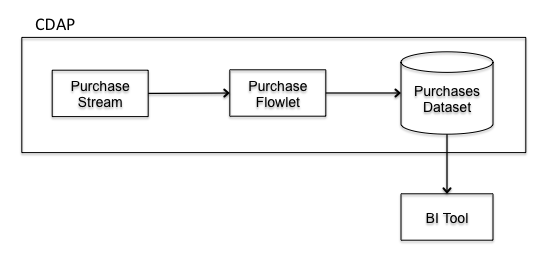
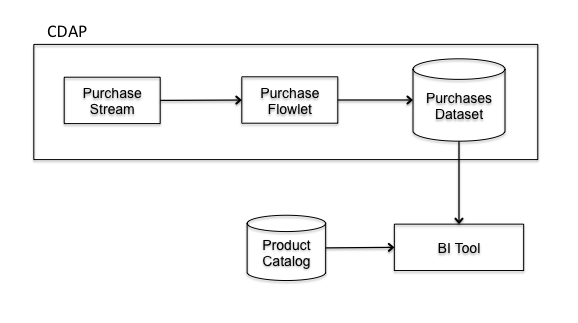
simplify code, and update readme

Changed region(s): [[0.0305, 0.0586, 0.9461, 0.9084]]

diff --git a/README.rst b/README.rst
@@ -1,19 +1,21 @@
-Accessing CDAP Data from BI Tools
+Analyzing CDAP Data from BI Tools
 ==================================
 
 The Cask Data Application Platform (CDAP) `Datasets <http://docs.cdap.io/cdap/current/en/dev-guide.html#datasets>`_ provide
-an abstraction to store data. In this guide you will learn how to access data in a Dataset 
-from a BI (Business Intelligence) Tool, allowing for ad-hoc exploration of the Dataset.
+an abstraction to store data. In this guide you will learn how to integrate and analyze Datasets with BI (Business Intelligence) Tool.
 
 What You Will Build
 -------------------
-* You will build a CDAP `Application <http://docs.cdap.io/cdap/current/en/dev-guide.html#applications>`_ that consumes
-  purchase events from a `Stream <http://docs.cdap.io/cdap/current/en/dev-guide.html#streams>`_ and stores them into a
-  Dataset, which is then accessed from the BI Tool.
-* You’ll build a `Flowlet <http://docs.cdap.io/cdap/current/en/dev-guide.html#flowlets>`_ that processes purchase
-  events in realtime, writing the events in a Dataset.
-* You’ll then access this Dataset from a BI tool to run queries by joining purchase events in the Dataset
-  and product catalog - a local data source in the BI tool.
+This guide will take you through building a CDAP `Application <http://docs.cdap.io/cdap/current/en/dev-guide.html#applications>`_
+that processes purchase events from a `Stream <http://docs.cdap.io/cdap/current/en/dev-guide.html#streams>`_,
+persists the results in a Dataset, and analyzes it using BI tool. You will:
+
+
+* Build a CDAP Application that consumes purchase events from a Stream and stores them into a Dataset.
+* Build a `Flowlet <http://docs.cdap.io/cdap/current/en/dev-guide.html#flowlets>`_ that processes purchase events in
+  realtime, writing the events in a Dataset.
+* Finally, access this Dataset from a BI tool to run queries by joining purchase events in the Dataset and a
+  product catalog - a local data source in the BI tool.
 
 What You Will Need
 ------------------
@@ -55,21 +57,16 @@ Implementation
 
 The first step is to get our application structure set up.  We will use a standard Maven project structure for all
 of the source code files::
-  ./LICENSE.txt
   ./pom.xml
-  ./README.rst
-  ./resources/prices.csv
-  ./resources/total_spend_per_user.ktr
   ./src/main/java/co/cask/cdap/guides/purchase/Purchase.java
   ./src/main/java/co/cask/cdap/guides/purchase/PurchaseApp.java
   ./src/main/java/co/cask/cdap/guides/purchase/PurchaseFlow.java
   ./src/main/java/co/cask/cdap/guides/purchase/PurchaseSinkFlowlet.java
   ./src/main/java/co/cask/cdap/guides/purchase/PurchaseStore.java
-  ./src/test/java/co/cask/cdap/examples/purchase/PurchaseAppTest.java
 
-The application is identified by the PurchaseApp class.
-This class extends AbstractApplication, and overrides the configure() method in order to define all of the
-application components:
+The application is identified by the ``PurchaseApp``  class.
+This class extends `AbstractApplication <http://docs.cdap.io/cdap/2.5.1/en/javadocs/co/cask/cdap/api/app/AbstractApplication.html>`_,
+and overrides the ``configure()`` method in order to define all of the application components:
 
 .. code:: java
 
@@ -80,7 +77,6 @@ application components:
     @Override
     public void configure() {
       setName(APP_NAME);
-      setDescription("Stores purchases in a Dataset, and makes it available for ad-hoc querying.");
       addStream(new Stream("purchases"));
       addFlow(new PurchaseFlow());
       createDataset("PurchasesDataset", PurchaseStore.class, PurchaseStore.properties());
@@ -90,17 +86,16 @@ application components:
 
 When it comes to handling time-based events, we need a place to receive and process the events themselves.
 CDAP provides a real-time stream processing system that is a great match for handling event streams.
-So, first, our PurchaseApp adds a new Stream ``purchases``.
+So, first, our ``PurchaseApp`` adds a new Stream ``purchases``.
 
-We also need a place to store the purchase event records that we receive, so, PurchaseApp next
+We also need a place to store the purchase event records that we receive, so, ``PurchaseApp`` next
 creates a Dataset to store the processed data. PurchaseApp uses an
-`ObjectStore <http://docs.cdap.io/cdap/current/en/javadocs/index.html>`_ Dataset to store the purchase events.
-The purchase events are represented as a Java class.
+`ObjectStore <http://docs.cdap.io/cdap/current/en/javadocs/index.html?co/cask/cdap/api/dataset/lib/ObjectStore.html>`_
+Dataset to store the purchase events. The purchase events are represented as a Java class, ``Purchase``.
 
 .. code:: java
 
   public class Purchase {
-
     private final String customer;
     private final String product;
     private final int quantity;
@@ -133,7 +128,6 @@ The purchase events are represented as a Java class.
       String hashedKey = purchaseTime + customer + product;
       return hashedKey.getBytes();
     }
-
   }
 
 
@@ -164,7 +158,6 @@ The ``PurchaseFlow`` consists of a ``PurchaseSinkFlowlet``.
   public class PurchaseSinkFlowlet extends AbstractFlowlet {
 
     private static final Logger LOG = LoggerFactory.getLogger(PurchaseSinkFlowlet.class);
-    private Metrics metrics;
 
     @UseDataSet("PurchasesDataset")
     private PurchaseStore store;
@@ -186,7 +179,6 @@ The ``PurchaseFlow`` consists of a ``PurchaseSinkFlowlet``.
       String item = tokens[2];
 
       Purchase purchase = new Purchase(customer, item, quantity, System.currentTimeMillis());
-      metrics.count("purchases." + purchase.getCustomer(), 1);
       store.write(purchase);
     }
   }
@@ -242,7 +234,7 @@ The ``PurchaseFlow`` consists of a ``PurchaseSinkFlowlet``.
 Build & Run
 -----------
 
-The ``PurchaseApp`` application can be built and packaged using standard Apache Maven commands.
+The ``PurchaseApp`` application can be built and packaged using Apache Maven commands.
 Run the following commands from the project directory::
 
   mvn clean package
@@ -308,9 +300,8 @@ spent by customer.
 
    .. image:: docs/images/preview-data.png
 
-Congratulations!  You have now learned how to explore CDAP Datasets from a BI tool.
+Congratulations!  You have now learned how to analyze CDAP Datasets from a BI tool.
 Please continue to experiment and extend this sample application.
-The ability to ask ad-hoc questions on data is a powerful feature for business analytics.
 
 
 Related Topics
@@ -322,7 +313,7 @@ Related Topics
 Extend This Example
 -------------------
 
-Now that you know how to integrate CDAP Datasets with BI Tools, you can ask more questions like:
+Now that you know how to integrate CDAP Datasets with BI Tools for data analysis, you can ask more questions like:
 
 * How much revenue does a particular product generate in a day?
 * What are the three most popular products?
